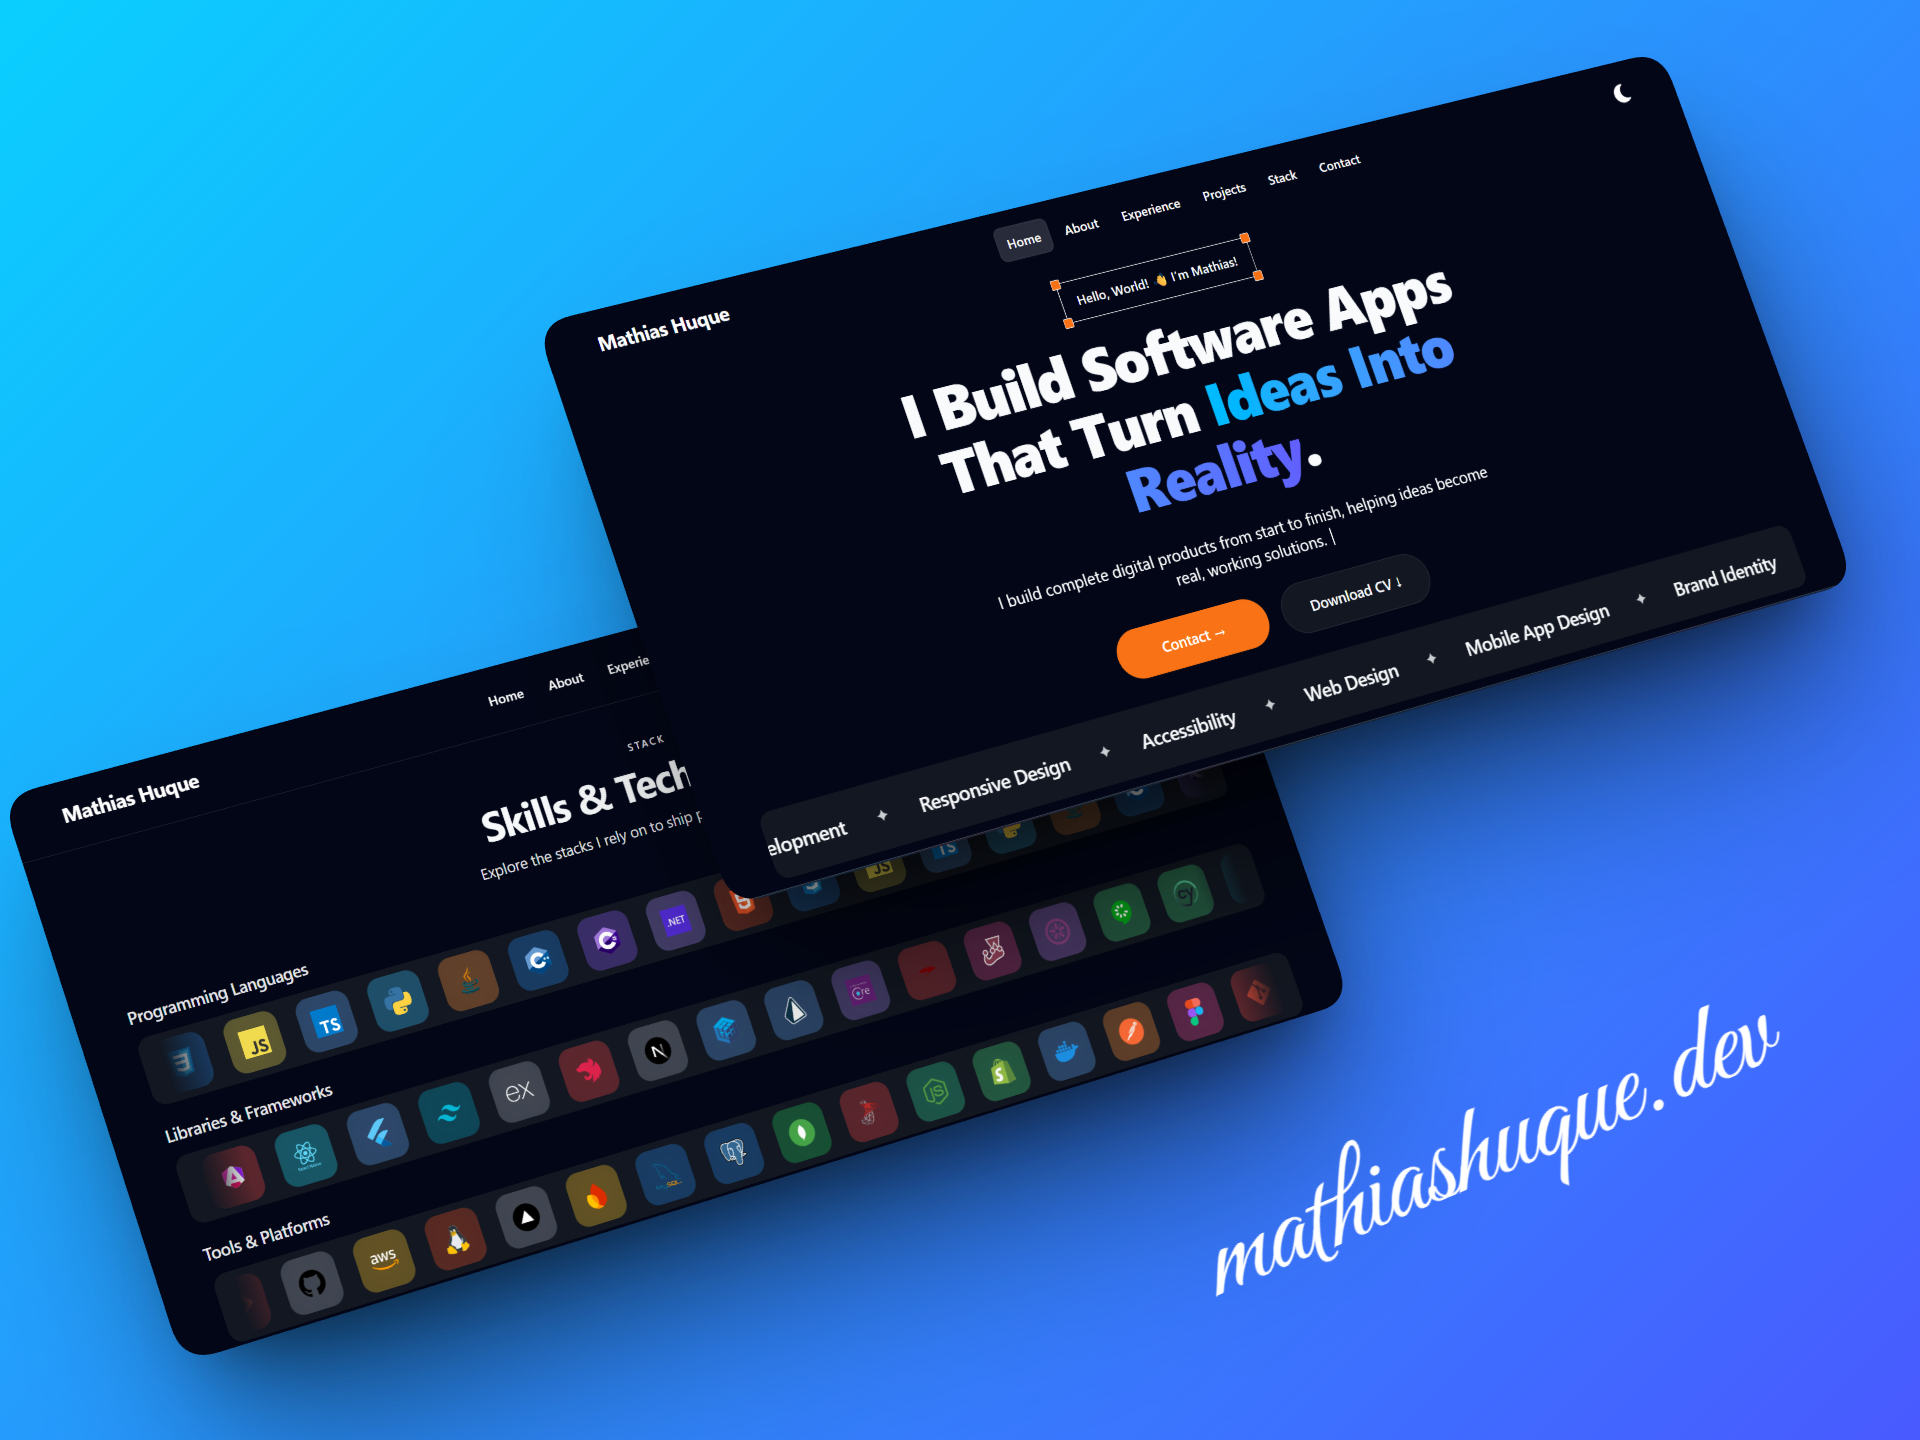
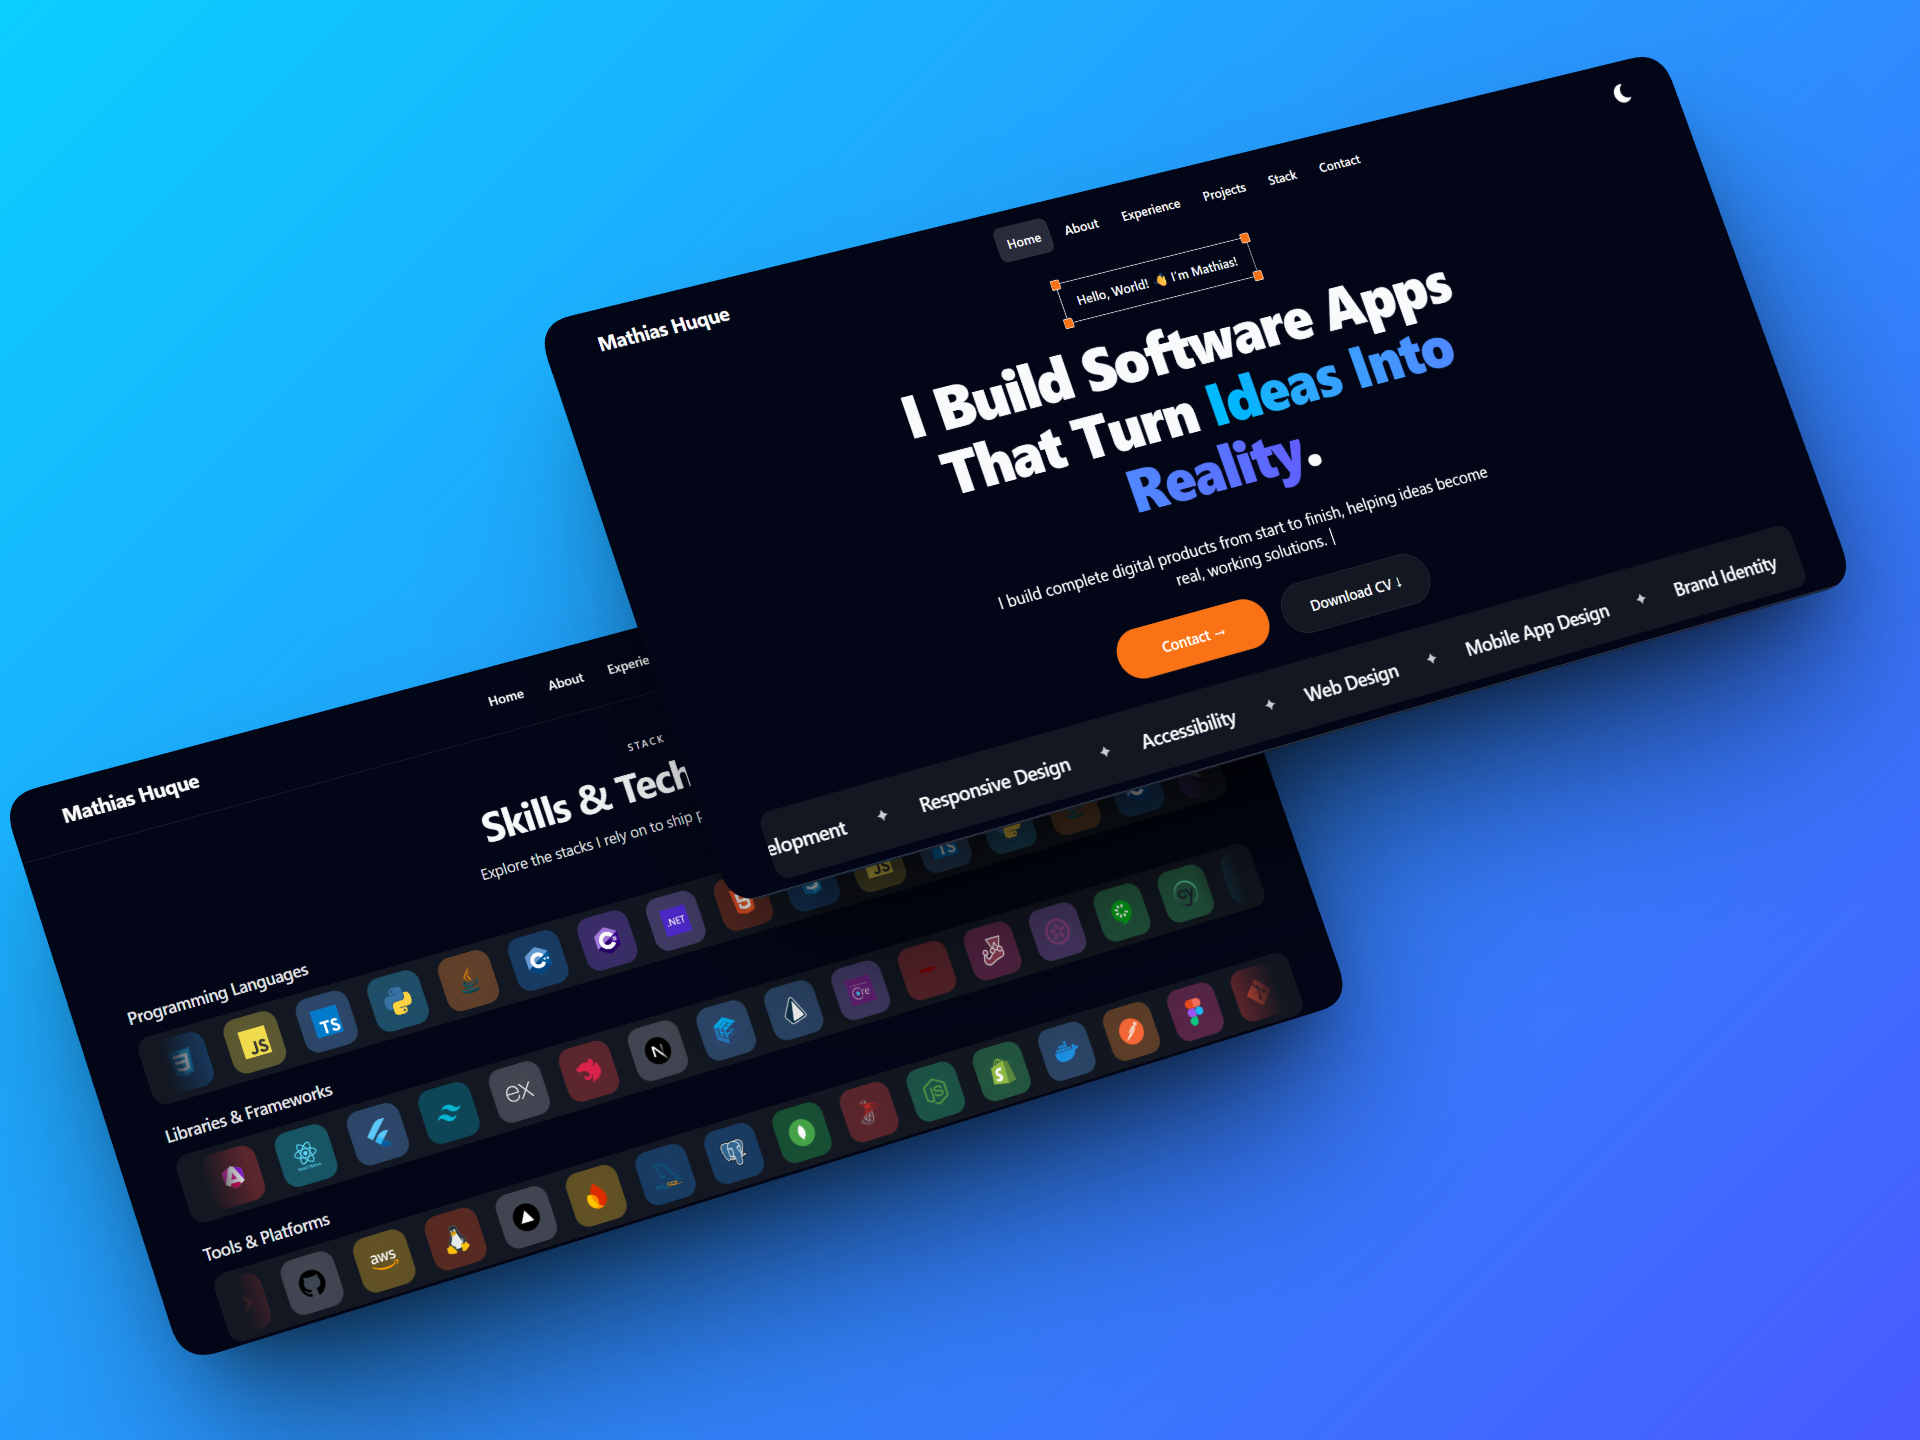
Open CV in new tab; add project aspect ratio
Make CV link open in a new tab and update its label (Download CV → Open CV) for safer external file access (target="_blank" + rel="noopener noreferrer"). Adjust ProjectTile by removing the fixed height and adding an aspect-4/3 class to enforce consistent thumbnail aspect ratios. Remove unused public/asd.png and public/avatar.png assets and update the public/projects/portfolio.png image asset. These changes improve UX, layout consistency, and clean up unused files.

Changed region(s): [[0.625, 0.75, 0.875, 0.9062], [0.875, 0.6875, 0.9375, 0.75]]

diff --git a/components/home/Hero.tsx b/components/home/Hero.tsx
@@ -53,9 +53,11 @@ export default function Hero({ constraintsRef, dragKey }: HeroProps) {
 
               <a
                 href="/Mathias_Huque_CV.pdf"
+                target="_blank"
+                rel="noopener noreferrer"
                 className="inline-flex items-center justify-center gap-2 px-9 py-4 rounded-full bg-panel border border-white/10 text-lg font-semibold hover:bg-white/10 transition min-w-50"
               >
-                Download CV ↓
+                Open CV ↓
               </a>
             </div>
           </div>

diff --git a/components/projects/ProjectTile.tsx b/components/projects/ProjectTile.tsx
@@ -7,7 +7,8 @@ export default function ProjectTile({ project }: { project: Project }) {
     <a
       href={project.link}
       className={cn(
-        "group relative block h-full w-full overflow-hidden rounded-2xl",
+        "group relative block w-full overflow-hidden rounded-2xl",
+        "aspect-4/3", 
         "border border-border/10 bg-panel",
         "transition-transform duration-300 hover:-translate-y-1",
         "focus:outline-none focus-visible:ring-2 focus-visible:ring-accent/60",
